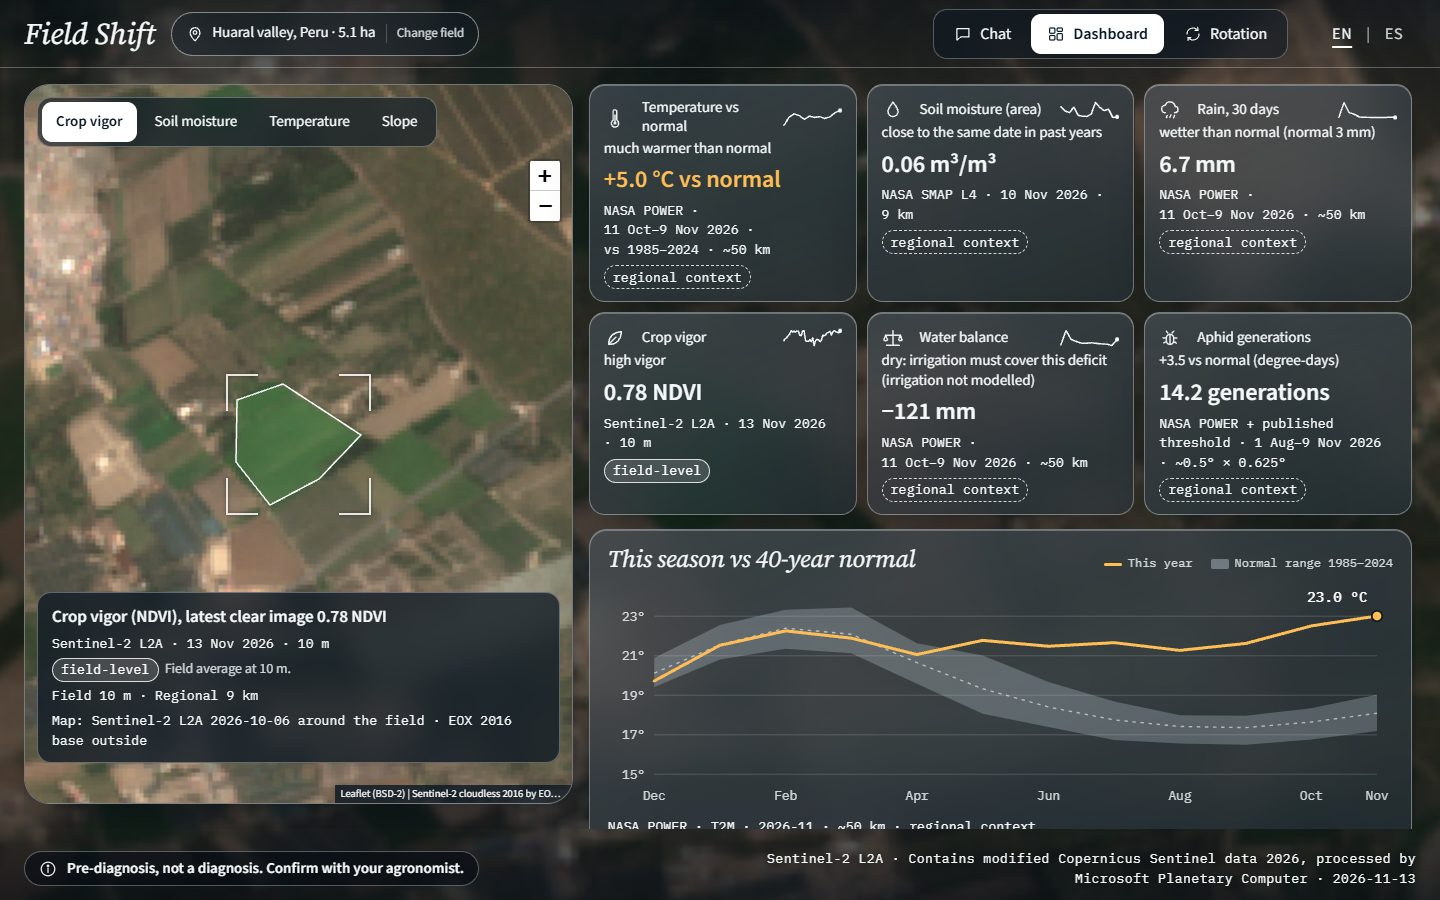
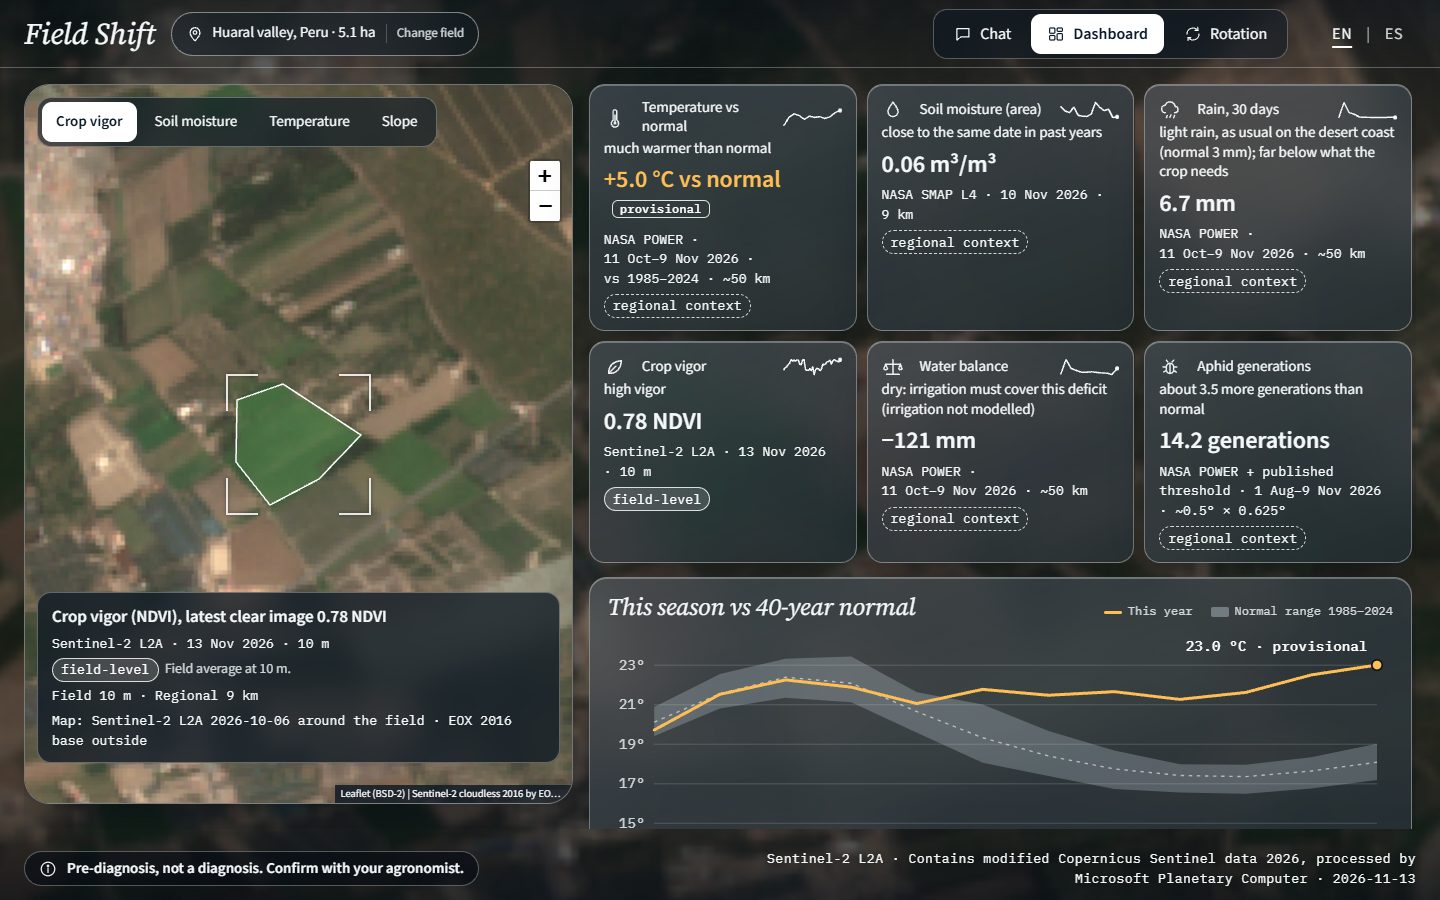
Post-audit polish: visible provisional tags, Nominatim search on Enter only, honest section count, legible charts, phone layout fixes

diff --git a/frontend/src/app/workspace/dashboard.ts b/frontend/src/app/workspace/dashboard.ts
@@ -6,7 +6,7 @@ import type { ClientAnalysis } from '../../shared/api';
 import type { EvidencePackage, Reading } from '../../shared/contract';
 import { ndviChart, seasonChart, timelineStrip } from '../../shared/charts';
 import { normalPeriod } from '../../shared/evidence';
-import { dataRow, sourceLine, valueText, badge, shortRes, resKm } from '../../shared/datarow';
+import { dataRow, sourceLine, valueText, badge, shortRes, resKm, provTag } from '../../shared/datarow';
 import { shortLabel } from '../../shared/evidence';
 import { esc } from '../../shared/dom';
 import { fmt, fmtDateShort, pick, t } from '../../shared/i18n';
@@ -38,7 +38,7 @@ export function layerLegend(ev: EvidencePackage | null, key: LayerKey): string {
   if (!r) return `<p class="dmap__note">${esc(t(ev ? 'ly_na' : 'db_no_evidence'))}</p>`;
   const v = valueText(r);
   const note = r.badge === 'field-level' ? t('db_layer_field', { res: shortRes(r.resolution) }) : t('db_layer_cell', { res: shortRes(r.resolution) });
-  return `<p class="dmap__val"><b>${esc(pick(r.label))}</b> <span class="${r.key ? 'amber' : ''}">${esc(v.text)}</span></p>
+  return `<p class="dmap__val"><b>${esc(pick(r.label))}</b> <span class="${r.key ? 'amber' : ''}">${esc(v.text)}</span>${provTag(r)}</p>
     <p class="dmap__src mono">${sourceLine(r)}</p>
     <p class="dmap__note">${badge(r.badge)} ${esc(note)}</p>${ev ? `<p class="dmap__scale mono">${esc(scaleNote(ev))}</p>` : ''}<p class="dmap__base mono" data-mapbase>${esc(mapBase)}</p>`;
 }
@@ -93,7 +93,7 @@ export function dashboardHtml(a: ClientAnalysis, opts: { preview?: boolean; laye
       <section class="glass dash__card dash__chart">
         <header class="dash__ch"><h3 class="serif">${esc(t('db_chart_title'))}</h3>
           <p class="legend"><span><i class="k-line"></i>${esc(t('db_this_year'))}</span><span><i class="k-band"></i>${esc(t('db_normal'))}${normalPeriod(ev) ? ' ' + esc(normalPeriod(ev)!) : ''}</span></p></header>
-        ${seasonChart(ev.climate_monthly, { w: 680, h: opts.preview ? 180 : 200 })}
+        ${seasonChart(ev.climate_monthly, { w: narrow() ? 380 : 680, h: narrow() ? 220 : opts.preview ? 180 : 200, provisional: !!ev.readings.find((r) => r.id.startsWith('temp'))?.provisional })}
         <p class="dash__src mono">NASA POWER · T2M · ${last ? esc(last) : ''} · ~50 km · ${esc(t('regional'))}</p>
       </section>
       <div class="dash__row dash__row--3">
@@ -109,7 +109,7 @@ export function dashboardHtml(a: ClientAnalysis, opts: { preview?: boolean; laye
         </section>`}
       </div>
       ${opts.preview ? '' : `<div class="dash__row">
-        <section class="glass dash__card"><h3 class="dash__h">${esc(t('db_ndvi_title'))}</h3>${ndviChart(ev.ndvi_series, { w: 420, h: 150 })}
+        <section class="glass dash__card"><h3 class="dash__h">${esc(t('db_ndvi_title'))}</h3>${ndviLine(ev)}${ndviChart(ev.ndvi_series, { w: narrow() ? 360 : 420, h: 150 })}
           <p class="dash__src mono">${esc([...new Set(ev.ndvi_series.map((n) => n.sensor))].join(' · '))} · 10–30 m · ${esc(t('field_level'))}</p></section>
         <section class="glass dash__card"><h3 class="dash__h">${esc(t('db_pests'))}</h3>
           ${pests.length ? `<ul class="pests">${pests.map((p) => `<li><span><b>${esc(p.name)}</b> <i>${esc(p.scientific)}</i></span>
@@ -118,6 +118,12 @@ export function dashboardHtml(a: ClientAnalysis, opts: { preview?: boolean; laye
         </section></div>`}
     </div>
   </div>`;
+}
+
+const narrow = () => typeof innerWidth === 'number' && innerWidth < 700;
+function ndviLine(ev: EvidencePackage): string {
+  const r = ev.readings.find((x) => x.id === 'ndvi');
+  return r ? `<p class="dash__line">${esc(pick(r.verdict))} · ${esc(valueText(r).text)} · ${esc(fmtDateShort(r.date))}</p>` : '';
 }
 
 type Proj = NonNullable<EvidencePackage['projection']> & { d_temp_range?: [number, number]; baseline_period?: string };
@@ -188,9 +194,10 @@ export async function mountDashboardMap(root: HTMLElement, a: ClientAnalysis): P
     const nw = map.latLngToContainerPoint(b.getNorthWest()), se = map.latLngToContainerPoint(b.getSouthEast());
     const pad = 10, w = Math.max(30, se.x - nw.x + pad * 2), h = Math.max(26, se.y - nw.y + pad * 2);
     ret.hidden = w > host.clientWidth * 0.9;
-    Object.assign(ret.style, { left: nw.x - pad + 'px', top: nw.y - pad + 'px', width: w + 'px', height: h + 'px' });
+    Object.assign(ret.style, { left: host.offsetLeft + nw.x - pad + 'px', top: host.offsetTop + nw.y - pad + 'px', width: w + 'px', height: h + 'px' });
   };
   map.on('move zoom resize', placeRet);
+  new ResizeObserver(() => { map.invalidateSize(); placeRet(); }).observe(host);
   requestAnimationFrame(() => { map.invalidateSize(); setLayer('vigor'); placeRet(); });
   return () => map.remove();
 }

diff --git a/frontend/src/app/field/select.ts b/frontend/src/app/field/select.ts
@@ -8,7 +8,7 @@ import { ringAreaHa, ringCenter, fmtCoord } from '../../shared/geo';
 import { applyI18n, fmt, fmtDate, lang, onLang, pick, t } from '../../shared/i18n';
 import { icon } from '../../shared/icons';
 import { addSnapshot, eoxLayer, loadLeaflet } from '../map/leaflet';
-import { debounce, searchPlaces, type Place } from './search';
+import { searchPlaces, type Place } from './search';
 import './field.css';
 
 type Mode = 'example' | 'gps';
@@ -60,8 +60,9 @@ export function mountFieldSelection(host: HTMLElement, opts: { site?: string | n
       </div>
       <div class="fs__search" role="search">
         <label for="fs-q" class="fs__label" data-i18n="fs_search">${esc(t('fs_search'))}</label>
-        <div class="fs__qwrap">${icon('search')}<input id="fs-q" type="search" autocomplete="off" role="combobox" aria-expanded="false" aria-controls="fs-results" aria-autocomplete="list"
-          placeholder="${esc(t('fs_search_ph'))}" data-i18n-attr="placeholder:fs_search_ph"></div>
+        <div class="fs__qrow"><div class="fs__qwrap">${icon('search')}<input id="fs-q" type="search" enterkeyhint="search" autocomplete="off" role="combobox" aria-expanded="false" aria-controls="fs-results" aria-autocomplete="list" aria-describedby="fs-qhint"
+          placeholder="${esc(t('fs_search_ph'))}" data-i18n-attr="placeholder:fs_search_ph"></div><button type="button" class="btn btn--glass btn--sm" id="fs-go" data-i18n="fs_search_go">${esc(t('fs_search_go'))}</button></div>
+        <p class="sr-only" id="fs-qhint" data-i18n="fs_search_hint">${esc(t('fs_search_hint'))}</p>
         <ul class="fs__results" id="fs-results" role="listbox" hidden></ul>
       </div>
       <div class="fs__tools" role="toolbar" aria-label="${esc(t('fs_draw'))}">
@@ -130,7 +131,10 @@ export function mountFieldSelection(host: HTMLElement, opts: { site?: string | n
     const w = se.x - nw.x + pad * 2, h = se.y - nw.y + pad * 2;
     reticle.hidden = false;
     Object.assign(reticle.style, { left: x + 'px', top: y + 'px', width: Math.max(44, w) + 'px', height: Math.max(40, h) + 'px' });
-    areaTag.style.transform = `translate(${x + Math.max(44, w) + 10}px, ${y - 8}px)`;
+    const tagW = areaTag.offsetWidth || 160;
+    const flip = x + Math.max(44, w) + 14 + tagW > host.clientWidth - 8;
+    areaTag.classList.toggle('is-flip', flip);
+    areaTag.style.transform = `translate(${flip ? x - tagW - 14 : x + Math.max(44, w) + 10}px, ${y - 8}px)`;
   }
   function lockOn() { reticle.classList.remove('is-locking'); void reticle.offsetWidth; reticle.classList.add('is-locking'); }
 
@@ -229,13 +233,14 @@ export function mountFieldSelection(host: HTMLElement, opts: { site?: string | n
     label = p.name.split(',').slice(0, 2).join(',');
     if (!ring.length && tool === 'none') { hint.textContent = t('fs_hint_draw'); }
   };
-  const run = debounce(async (v: string) => {
+  const run = async (v: string) => {
     if (v.trim().length < 3) { showResults(false); return; }
     try { places = await searchPlaces(v); active = -1; renderResults(); }
     catch (e) { if ((e as Error).name !== 'AbortError') { results.innerHTML = `<li class="fs__none">${esc(t('fs_search_err'))}</li>`; showResults(true); } }
-  }, 600);
-  q.addEventListener('input', () => run(q.value));
+  };
+  $('#fs-go', host).addEventListener('click', () => void run(q.value));
   q.addEventListener('keydown', (e) => {
+    if (e.key === 'Enter' && (results.hidden || active < 0)) { e.preventDefault(); void run(q.value); return; }
     if (results.hidden || !places.length) return;
     if (e.key === 'ArrowDown') { active = (active + 1) % places.length; renderResults(); e.preventDefault(); }
     else if (e.key === 'ArrowUp') { active = (active - 1 + places.length) % places.length; renderResults(); e.preventDefault(); }

diff --git a/frontend/src/shared/datarow.ts b/frontend/src/shared/datarow.ts
@@ -47,6 +47,12 @@ export function resKm(res: string): number | null {
   return a[2].toLowerCase() === 'km' ? v : v / 1000;
 }
 
+/** Visible "provisional" tag for readings flagged by the backend. */
+export function provTag(r: Pick<Reading, 'provisional' | 'note'>): string {
+  if (!r.provisional) return '';
+  return `<span class="prov" title="${esc(r.note ? pick(r.note) : t('prov_tip'))}">${esc(t('prov'))}</span>`;
+}
+
 export function badge(b: Reading['badge']): string {
   const field = b === 'field-level';
   return `<span class="badge ${field ? 'badge--field' : 'badge--regional'}" title="${esc(t(field ? 'field_level_tip' : 'regional_tip'))}">${esc(t(field ? 'field_level' : 'regional'))}</span>`;
@@ -78,7 +84,7 @@ export function dataRow(r: Reading): string {
   return `<div class="drow" data-reading="${esc(r.id)}">
     ${icon(readingIcon(r.id), 'drow__icon')}
     <div class="drow__label">${esc(pick(r.label))}</div>
-    <div class="drow__value${r.key ? ' is-key' : ''}${v.isWord ? ' is-word' : ''}">${esc(v.text)}</div>
+    <div class="drow__value${r.key ? ' is-key' : ''}${v.isWord ? ' is-word' : ''}">${esc(v.text)}${provTag(r)}</div>
     <div class="drow__verdict">${v.isWord ? '' : esc(cleanVerdict(r))}</div>
     ${sparkline(series)}
     <div class="drow__meta"><span class="drow__src" title="${esc(sourceFull(r))}">${sourceShort(r)}</span>${badge(r.badge)}</div>
@@ -93,7 +99,7 @@ export function dataRowCompact(r: Reading, srcText?: string, label?: string, ver
   return `<div class="drow drow--compact" data-reading="${esc(r.id)}">
     ${icon(readingIcon(r.id), 'drow__icon')}
     <div class="drow__label" title="${esc(pick(r.label))}">${esc(label ?? pick(r.label))}</div>
-    <div class="drow__value${r.key ? ' is-key' : ''}${v.isWord ? ' is-word' : ''}">${esc(v.text)}</div>
+    <div class="drow__value${r.key ? ' is-key' : ''}${v.isWord ? ' is-word' : ''}">${esc(v.text)}${provTag(r)}</div>
     ${verdict ? `<div class="drow__verdict drow__verdict--c">${esc(v.isWord ? '' : cleanVerdict(r))}</div>` : ''}
     <div class="drow__src" title="${esc(sourceFull(r))}">${srcText ? esc(src) : sourceShort(r)} ${badge(r.badge)}</div>
     ${sparkline(series, 52, 22)}

diff --git a/frontend/src/app/field/search.ts b/frontend/src/app/field/search.ts
@@ -1,4 +1,5 @@
-// Place search with Nominatim (OpenStreetMap, ODbL): debounced, at most one request per second, aborts stale ones.
+// Place search with Nominatim (OpenStreetMap, ODbL). Usage policy: no search-as-you-type; one search per explicit
+// request (Enter or the Search button), at most one request per second, results cached per query.
 import { lang } from '../../shared/i18n';
 
 export interface Place { name: string; lat: number; lon: number; bbox?: [number, number, number, number] }
@@ -6,7 +7,12 @@ export interface Place { name: string; lat: number; lon: number; bbox?: [number,
 let last = 0;
 let ctl: AbortController | null = null;
 
+const cache = new Map<string, Place[]>();
+
 export async function searchPlaces(q: string): Promise<Place[]> {
+  const key = q.trim().toLowerCase() + '|' + lang();
+  const hit = cache.get(key);
+  if (hit) return hit;
   const wait = Math.max(0, last + 1000 - Date.now());
   if (wait) await new Promise((r) => setTimeout(r, wait));
   ctl?.abort();
@@ -16,10 +22,12 @@ export async function searchPlaces(q: string): Promise<Place[]> {
   const r = await fetch(url, { signal: ctl.signal, headers: { Accept: 'application/json' } });
   if (!r.ok) throw new Error(String(r.status));
   const rows = (await r.json()) as { display_name: string; lat: string; lon: string; boundingbox?: string[] }[];
-  return rows.map((x) => ({
+  const out = rows.map((x) => ({
     name: x.display_name, lat: +x.lat, lon: +x.lon,
     bbox: x.boundingbox ? [+x.boundingbox[2], +x.boundingbox[0], +x.boundingbox[3], +x.boundingbox[1]] : undefined,
-  }));
+  })) as Place[];
+  cache.set(key, out);
+  return out;
 }
 
 export function debounce<A extends unknown[]>(fn: (...a: A) => void, ms: number): (...a: A) => void {

diff --git a/frontend/src/app/workspace/rotation.ts b/frontend/src/app/workspace/rotation.ts
@@ -5,6 +5,7 @@ import type { ClientAnalysis } from '../../shared/api';
 import type { SectionContent } from '../../shared/contract';
 import { dots, timelineStrip } from '../../shared/charts';
 import { derivedHeadline } from '../../shared/evidence';
+import { provTag } from '../../shared/datarow';
 import { esc } from '../../shared/dom';
 import { pick, t } from '../../shared/i18n';
 import { icon, type IconName } from '../../shared/icons';
@@ -60,6 +61,7 @@ export function rotationHtml(a: ClientAnalysis): string {
     <section class="rot__dx glass" aria-labelledby="rot-h">
       <p class="rot__label mono">${esc(t('rt_label'))}</p>
       <h2 class="serif rot__h" id="rot-h">${esc(pd ? pick(pd.headline) : c ? pick(c.summary) : t('rt_empty'))}</h2>
+      ${a.evidence?.readings.some((r) => r.provisional) && /warm|cálid|temperat/i.test(pd ? pick(pd.headline) : '') ? `<p class="rot__prov">${provTag(a.evidence!.readings.find((r) => r.provisional)!)} <span>${esc(pick(a.evidence!.readings.find((r) => r.provisional)!.note ?? { en: t('prov_tip'), es: t('prov_tip') }))}</span></p>` : ''}
       ${conf ? `<div class="conf"><span class="mono">${esc(t('rt_confidence'))}</span><span class="conf__bar" aria-hidden="true">${[1, 2, 3].map((i) => `<i class="${i <= confN ? 'on' : ''}"></i>`).join('')}</span><b>${esc(t(conf === 'high' ? 'conf_high' : conf === 'medium' ? 'conf_medium' : 'conf_low'))}</b></div>` : ''}
       <p class="rot__confirm">${icon('info')}${esc(t('rt_confirm'))}</p>
       <ul class="rot__minis">${mini('soil', 'soil', 'sec_soil')}${mini('pests', 'bug', 'sec_pests')}${mini('nutrition', 'nutrition', 'sec_nutrition')}</ul>

diff --git a/frontend/src/shared/charts.ts b/frontend/src/shared/charts.ts
@@ -6,7 +6,7 @@ import { fmt, fmtDate, lang, monthShort, t } from './i18n';
 
 type Climate = EvidencePackage['climate_monthly'];
 
-export function seasonChart(rows: Climate, opts: { w?: number; h?: number; id?: string } = {}): string {
+export function seasonChart(rows: Climate, opts: { w?: number; h?: number; id?: string; provisional?: boolean } = {}): string {
   const W = opts.w ?? 640, H = opts.h ?? 240, L = 40, R = 14, T = 16, B = 30;
   const valid = rows.filter((r) => r.normal_lo != null);
   if (valid.length < 2) return `<p class="chart-empty">${esc(t('db_no_evidence'))}</p>`;
@@ -33,7 +33,7 @@ export function seasonChart(rows: Climate, opts: { w?: number; h?: number; id?: 
     <g class="grid">${ticks.join('')}</g>
     <path class="band" d="${band}"/><path class="mean" d="${mean}"/>
     <path class="line" d="${line}"/>
-    ${last ? `<circle class="dot" cx="${last[0]}" cy="${last[1]}" r="4.5"/><text class="last" x="${last[0] - 8}" y="${last[1] - 12}" text-anchor="end">${esc(label)} °C</text>` : ''}
+    ${last ? `<circle class="dot" cx="${last[0]}" cy="${last[1]}" r="4.5"/><text class="last" x="${last[0] - 8}" y="${last[1] - 12}" text-anchor="end">${esc(label)} °C${opts.provisional || (lastRow as { partial?: boolean } | undefined)?.partial ? ' · ' + esc(t('prov')) : ''}</text>` : ''}
     <g class="axis">${months}</g>
   </svg>`;
 }

diff --git a/frontend/src/index/sections.ts b/frontend/src/index/sections.ts
@@ -2,6 +2,7 @@
 // Static text carries data-i18n keys so the EN | ES switch updates it in place.
 import { DEMO_EVIDENCE, HUARAL_FIELD } from '../shared/demo/huaral';
 import { findReading, normalPeriod, signed } from '../shared/evidence';
+import { provTag } from '../shared/datarow';
 import { esc } from '../shared/dom';
 import { fmt, fmtDate, t } from '../shared/i18n';
 import { icon, type IconName } from '../shared/icons';
@@ -80,7 +81,7 @@ export function anomalyItem(): string {
   if (!r || r.value == null) return '';
   const p = normalPeriod(DEMO_EVIDENCE) ?? '40-year';
   const d = fmtDate(r.date);
-  return `<li class="ds ds--key" data-ds="key" id="ds-key"><span class="ds__key">${esc(t('ix_anomaly', { v: signed(r.value, '°C'), p }))}</span><span class="ds__res mono">${esc(t('ix_anomaly_src', { d }))}</span></li>`;
+  return `<li class="ds ds--key" data-ds="key" id="ds-key"><span class="ds__key">${esc(t('ix_anomaly', { v: signed(r.value, '°C'), p }))}${provTag(r)}</span><span class="ds__res mono">${esc(t('ix_anomaly_src', { d }))}</span></li>`;
 }
 
 function data(): string {

diff --git a/frontend/src/shared/phone.ts b/frontend/src/shared/phone.ts
@@ -3,7 +3,7 @@ import { DEMO_EVIDENCE, HUARAL_FIELD } from './demo/huaral';
 import { dataRowCompact, shortRes } from './datarow';
 import { keyReadings, normalPeriod, shortLabel } from './evidence';
 import { esc } from './dom';
-import { fmt, t } from './i18n';
+import { fmt, fmtDateShort, t } from './i18n';
 import { icon } from './icons';
 
 export function glassPhoneHtml(): string {
@@ -18,7 +18,7 @@ export function glassPhoneHtml(): string {
     </div>
     <div class="phone__rows">
       ${keyReadings(DEMO_EVIDENCE).map((r) => dataRowCompact(r, r.id.startsWith('temp') && normalPeriod(DEMO_EVIDENCE)
-        ? `${r.source} · ${normalPeriod(DEMO_EVIDENCE)} ${t('db_norm')}`
+        ? `${r.source} · ${fmtDateShort(r.date)} · vs ${normalPeriod(DEMO_EVIDENCE)}`
         : `${r.source.replace(/\s+L2A$/, '')} · ${shortRes(r.resolution)}`, shortLabel(r))).join('')}
     </div>
     <figcaption class="phone__foot mono">${esc(t('demo_data'))} · ${esc(t('huaral'))}</figcaption>

diff --git a/frontend/src/app/workspace/sections.ts b/frontend/src/app/workspace/sections.ts
@@ -82,7 +82,7 @@ export function sectionsColumn(a: ClientAnalysis, open: SectionKey | null): stri
     return pickR.length ? `<div class="sec__peek">${pickR.map((r) => dataRowCompact(r, undefined, shortLabel(r), true)).join('')}</div>` : '';
   };
   return `<header class="secs__head"><h2 class="serif">${esc(t('ws_sections'))}</h2>
-      <span class="secs__count mono">${esc(t('ws_progress', { done, total: secs.length }))}</span></header>
+      <span class="secs__count mono">${esc(secs.some((s) => s.state === 'gaps') ? t('ws_progress_g', { done: done - secs.filter((s) => s.state === 'gaps').length, total: secs.length, g: secs.filter((s) => s.state === 'gaps').length }) : t('ws_progress', { done, total: secs.length }))}</span></header>
     <ul class="secs__list" data-secs-list>${secs.map((s) => {
       const isOpen = open === s.key;
       return `<li class="sec sec--${s.state}${isOpen ? ' is-open' : ''}">

diff --git a/frontend/src/shared/strings.ts b/frontend/src/shared/strings.ts
@@ -198,6 +198,11 @@ const S = {
   ws_edit: { en: 'Edit', es: 'Editar' },
   ws_sections: { en: 'Your pre-diagnosis', es: 'Tu prediagnóstico' },
   ws_progress: { en: '{done} of {total} ready', es: '{done} de {total} listas' },
+  ws_progress_g: { en: '{done} of {total} · {g} with gaps', es: '{done} de {total} · {g} con vacíos' },
+  prov: { en: 'provisional', es: 'provisional' },
+  prov_tip: { en: 'Latest weeks come from near-real-time data and may change.', es: 'Las últimas semanas vienen de datos casi en tiempo real y pueden cambiar.' },
+  fs_search_go: { en: 'Search', es: 'Buscar' },
+  fs_search_hint: { en: 'Press Enter or Search', es: 'Pulsa Enter o Buscar' },
   sec_field: { en: 'Your field', es: 'Tu campo' },
   sec_field_sub: { en: 'NASA data', es: 'Datos NASA' },
   sec_soil: { en: 'Soil', es: 'Suelo' },

diff --git a/frontend/src/app/workspace/workspace.css b/frontend/src/app/workspace/workspace.css
@@ -331,3 +331,13 @@
   .ws__credit { font-size: 0.8125rem; line-height: 1.3; }
 }
 .ws:not([data-view='chat']) .backdrop__sharp { display: none; }
+
+/* Polish pass */
+.rot__mini .ring__dot { display: none; }
+.rot__prov { display: flex; gap: 8px; align-items: center; font-size: 0.875rem; color: var(--ink); margin-top: -4px; }
+.rot__prov .prov { margin-left: 0; }
+.drow--compact .drow__src .badge { font-size: 0.8125rem; }
+.chat__log { -webkit-mask-image: linear-gradient(transparent 0, #000 22px, #000 calc(100% - 22px), transparent 100%); mask-image: linear-gradient(transparent 0, #000 22px, #000 calc(100% - 22px), transparent 100%); }
+@media (min-width: 900px) {
+  .ws__bg .backdrop__ground { filter: brightness(0.5) saturate(0.95) contrast(1.08) blur(0.6px); }
+}

diff --git a/frontend/src/app/field/field.css b/frontend/src/app/field/field.css
@@ -120,3 +120,21 @@
   .fs__readout { order: -3; border-top: 0; padding-top: 0; }
   .fs__lede { order: -2; }
 }
+
+/* Polish pass */
+.fs__qrow { display: grid; grid-template-columns: minmax(0, 1fr) auto; gap: 8px; }
+.fs__qrow .btn { min-height: 48px; }
+.fs__area-tag.is-flip::before { left: auto; right: -12px; }
+.fs__area-tag.is-flip { text-align: right; }
+@media (max-width: 760px) {
+  .fs__title { order: -9; }
+  .fs__lede { order: -8; }
+  .fs__panel .seg { order: -7; }
+  .fs__pane { order: -6; }
+  .fs__search { order: -5; }
+  .fs__tools { order: -4; }
+  .fs__finish, .fs__hint { order: -3; }
+  .fs__readout { order: -2; }
+  .ex { padding: 8px 12px; }
+  .fs__panel { padding-bottom: 110px; }
+}
